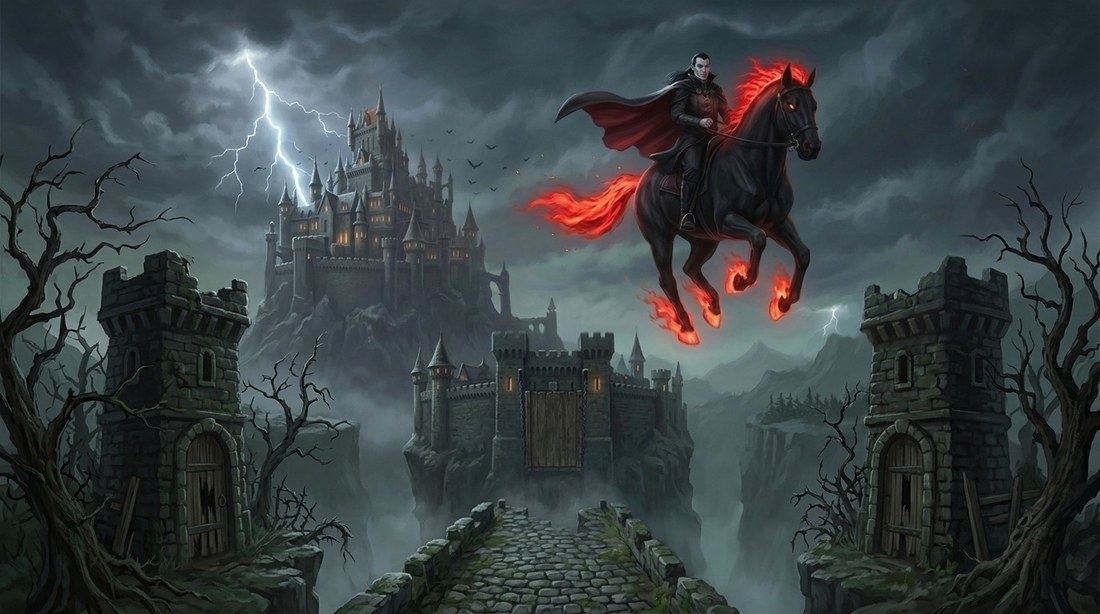
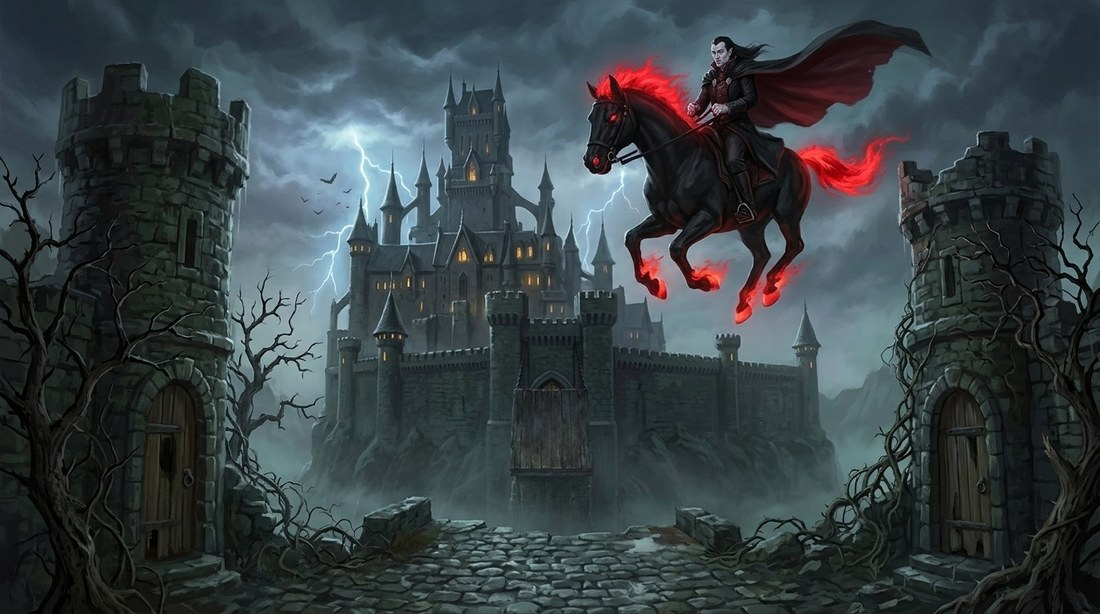
Beucephalus: gate and drawbridge in the castle's own outer wall
Chris: the last version read as three elements (guard towers, a separate
gatehouse, a far castle with its own wall) and gave no way into the castle.
Now one castle: the raised drawbridge sits in its outer wall straight across
the narrow chasm from the road's end. Region edits raised the drawbridge and
removed two glass lamps; independent look check.

Claude-Session: https://claude.ai/code/session_01U8i5qV2yjH33xRNCtxjxHP

diff --git a/content/posts/2026-02-10-unwelcome-guests.md b/content/posts/2026-02-10-unwelcome-guests.md
@@ -24,7 +24,7 @@ Note: The party briefly debated a "Trojan Bunny" strategy, or stealing the Vista
 
 At the edge of the precipice we watched Strahd von Zarovich ride out of the castle on his nightmare, Beucephalus. With the master gone, Aera made herself invisible and Crusty gave her the power to fly. She soared across the chasm and came up behind the wights on the ramparts. With a conjured hand she picked the alarm horn from the first wight’s pocket, then took the second wight’s horn as well. It nearly went very wrong when she tried a running somersault dropkick to send one of them off the edge. She stumbled and bounced off the guard, and the kick undid her invisibility. The fight broke out, and we destroyed the wights. Aera poured oil on the drawbridge chains to quiet them, and we lowered the drawbridge and reached the servants’ entrance.
 
-![Strahd on Beucephalus, a black nightmare with a burning mane, flying at night from Castle Ravenloft over the narrow chasm, the drawbridge raised at the end of the road](/images/beucephalus-ai.jpg)
+![Strahd on Beucephalus, a black nightmare with a burning mane, flying at night over the narrow chasm before Castle Ravenloft, its drawbridge raised in the outer wall at the end of the road](/images/beucephalus-ai.jpg)
 
 *AI-generated image (Google Gemini, October 2026). Not official art.*
 

diff --git a/content/wiki/beucephalus.md b/content/wiki/beucephalus.md
@@ -7,7 +7,7 @@ source: Compiled from the adventure log, with a description written for the site
 
 ## Description
 
-![Strahd on Beucephalus, a black nightmare with a burning mane, flying at night from Castle Ravenloft over the narrow chasm, the drawbridge raised at the end of the road](/images/beucephalus-ai.jpg)
+![Strahd on Beucephalus, a black nightmare with a burning mane, flying at night over the narrow chasm before Castle Ravenloft, its drawbridge raised in the outer wall at the end of the road](/images/beucephalus-ai.jpg)
 
 *AI-generated image (Google Gemini, October 2026), drawn from this page and the session logs. Not official art.*
 
